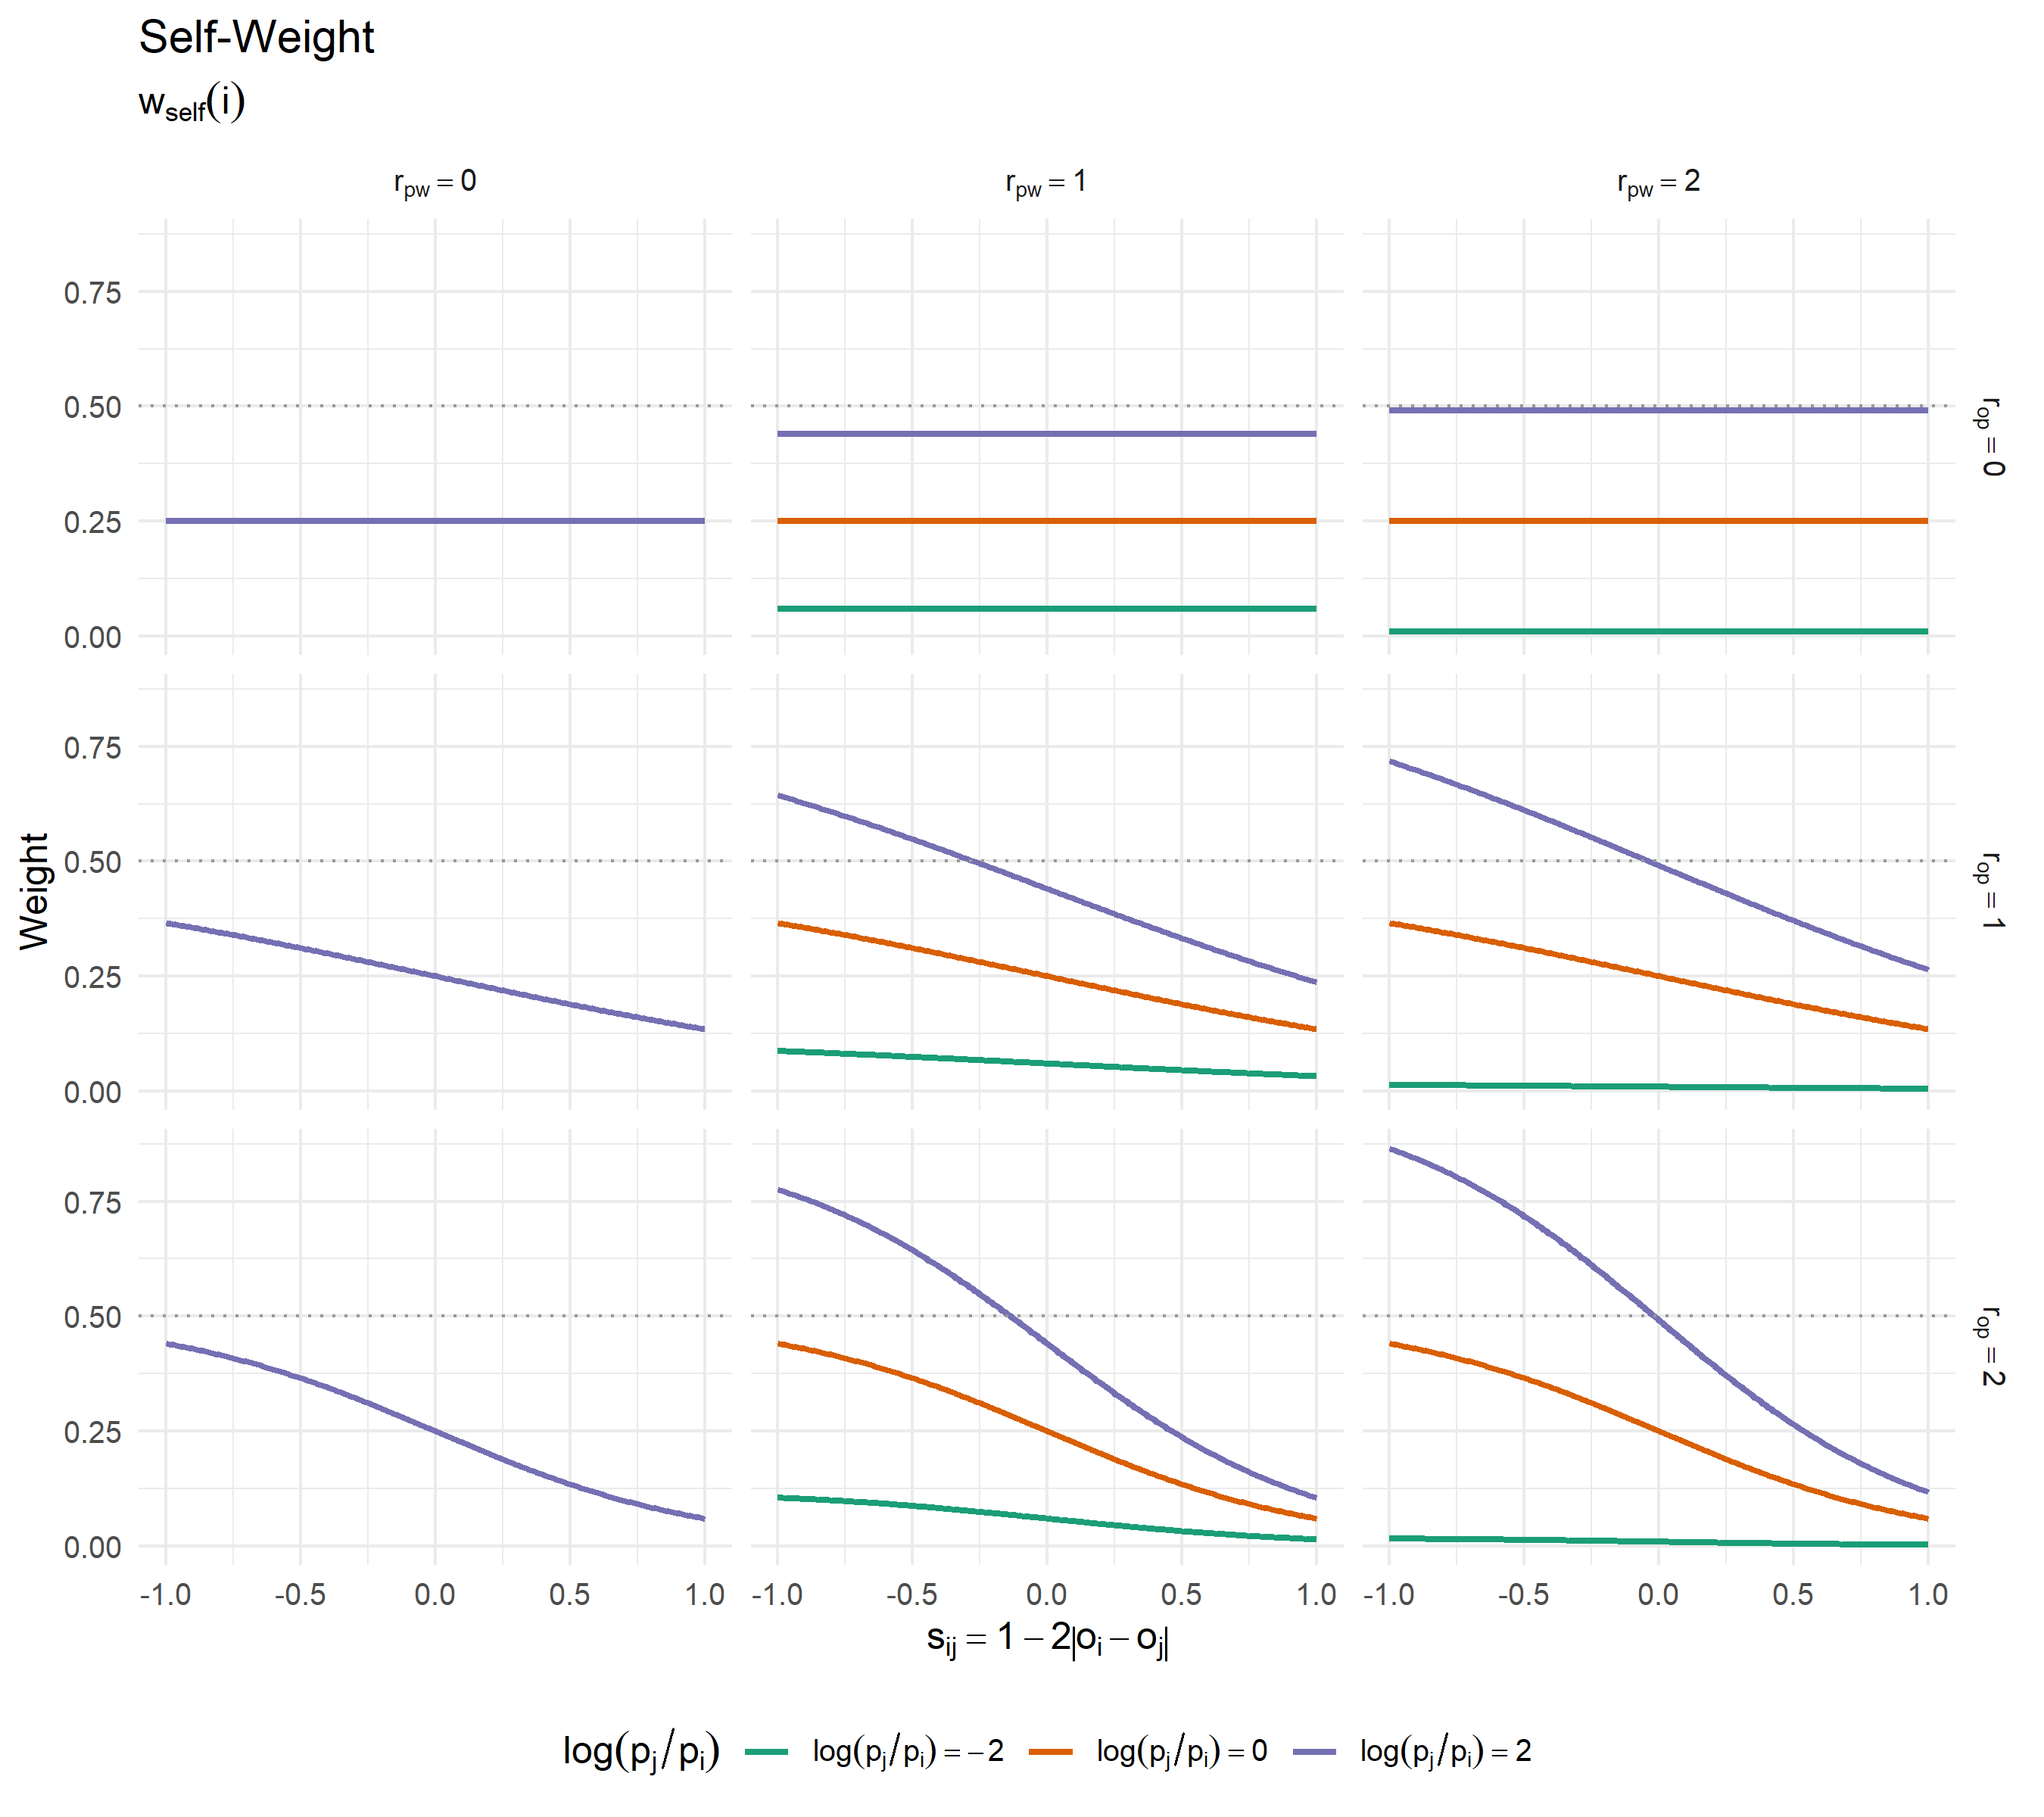
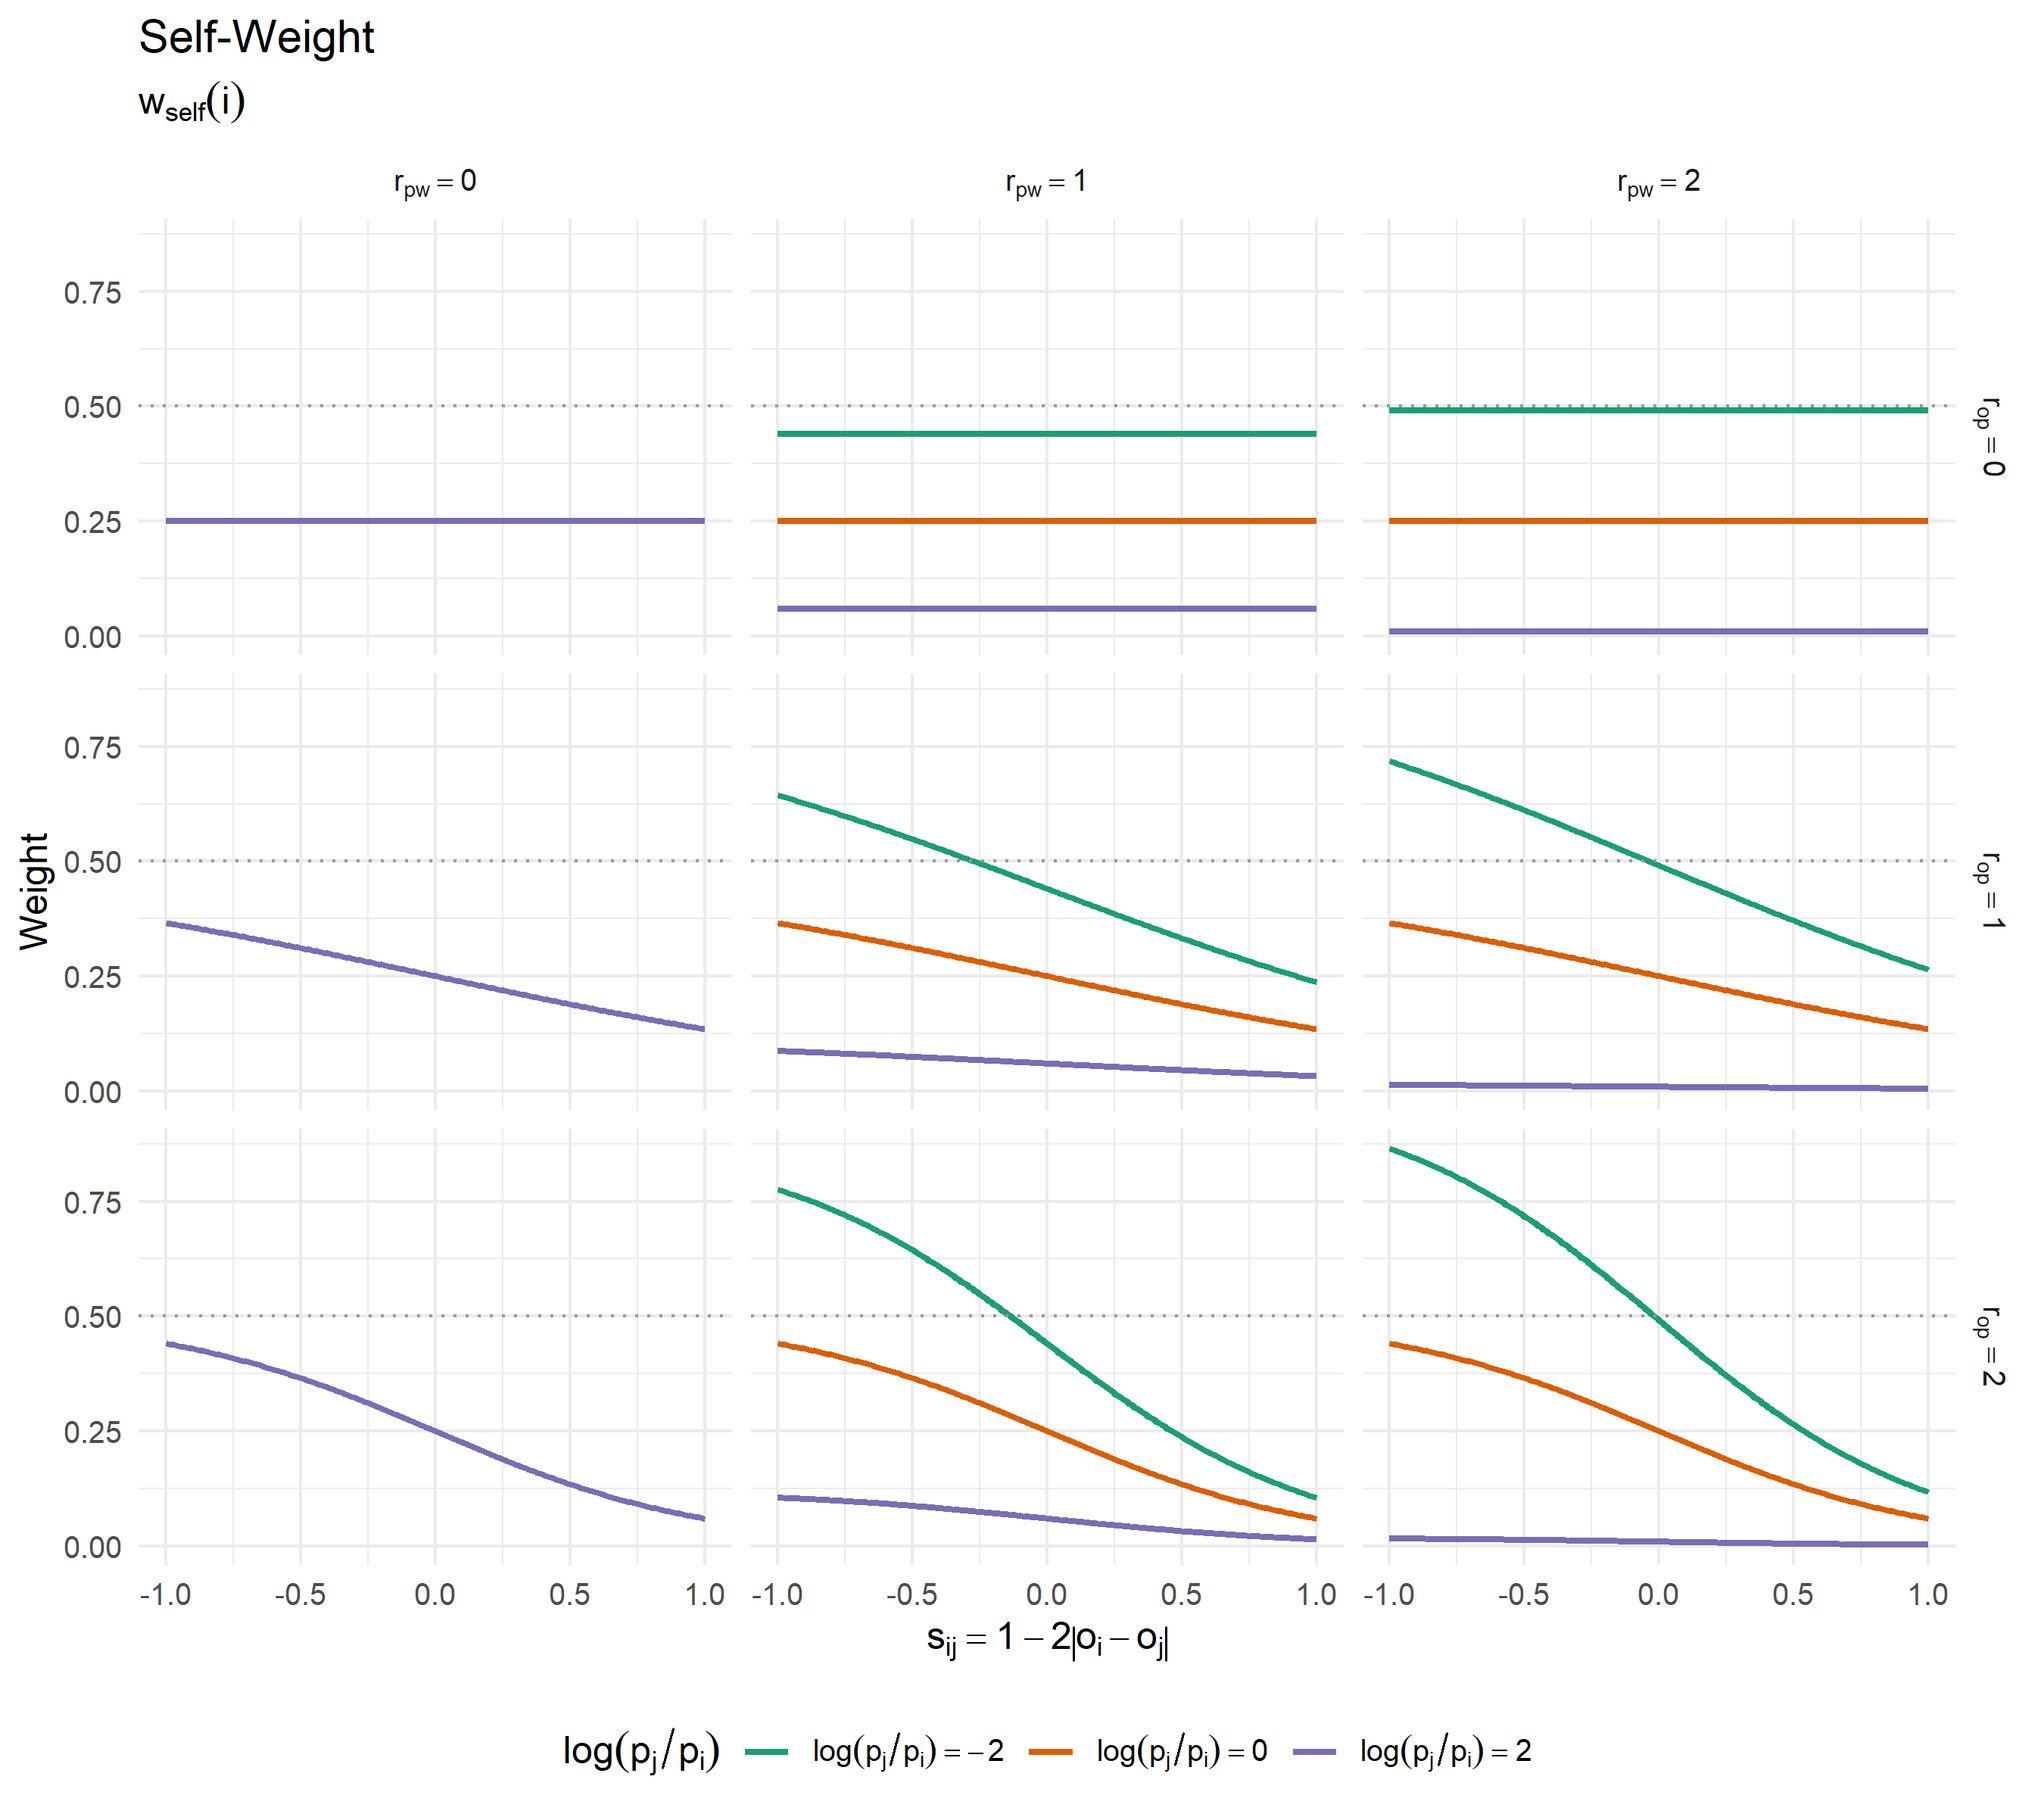
Report 11

diff --git a/reports/Report_11.md b/reports/Report_11.md
@@ -6,30 +6,14 @@ Weekly Report — Week 11 (01.05.2026 – 07.05.2026)
 
 ### Neighbour-Weight (Attractiveness)
 
-$$A_{ij} = \sigma\!\left(r_{op} \cdot \bigl(1 -2\,|o_i - o_j|\bigr)\right) \cdot \sigma\!\left(r_{pw} \cdot \log\frac{p_j}{p_i}\right)$$
-
-Defining the opinion similarity $s_{ij} = 1-2|o_i-o_j| \in [-1,1]$, this
-is equivalent to
-$A_{ij} = \sigma(-r_{op}\,s_{ij})\cdot\sigma(r_{pw}\log\tfrac{p_j}{p_i})$.
+$$A_{ij} = \sigma\!\left(r_{op} \cdot (1 - 2\,|o_i - o_j|)\right) \cdot \sigma\!\left(r_{pw} \cdot \log\frac{p_j}{p_i}\right)$$
 
 ### Self-Weight
 
 Let $j^\ast = \arg\max_{j \in N(i)} A_{ij}$ denote the most attractive
-neighbour of agent $i$. The self-weight is then defined as
+neighbour of agent $i$.
 
-$$w_{\text{self}}(i)
-= \sigma\!\left(-r_{op}\,s_{ij^\ast}\right)
-\cdot \sigma\!\left(-r_{pw}\log\frac{p_i}{p_{j^\ast}}\right)$$
-
-Equivalently,
-
-$$w_{\text{self}}(i)
-= \sigma\!\left(r_{op}\bigl(2\,|o_i - o_{j^\ast}| - 1\bigr)\right)
-\cdot \sigma\!\left(r_{pw}\log\frac{p_{j^\ast}}{p_i}\right)$$
-
-Thus, the self-weight is the mirrored counterpart of the
-neighbour-weight: conditions that increase delegation attractiveness
-reduce self-weight, and vice versa.
+$$w_{\text{self}}(i) = \sigma\!\left(r_{op} \cdot \bigl(2\,|o_i - o_{j^\ast}| - 1\bigr)\right) \cdot \sigma\!\left(r_{pw} \cdot \log\frac{p_i}{p_{j^\ast}}\right)$$
 
 ------------------------------------------------------------------------
 
@@ -37,7 +21,11 @@ reduce self-weight, and vice versa.
 
 ![](Report_11_files/figure-gfm/plot-1d-power-1.png)<!-- -->![](Report_11_files/figure-gfm/plot-1d-power-2.png)<!-- -->
 
-## 3. Weight Surfaces (2-D Heatmaps)
+## 3. Weight vs. Power Ratio (1-D Slices)
+
+![](Report_11_files/figure-gfm/plot-1d-power-x-1.png)<!-- -->![](Report_11_files/figure-gfm/plot-1d-power-x-2.png)<!-- -->
+
+## 4. Weight Surfaces (2-D Heatmaps)
 
 ![](Report_11_files/figure-gfm/plot-2d-heatmap-1.png)<!-- -->![](Report_11_files/figure-gfm/plot-2d-heatmap-2.png)<!-- -->
 
@@ -53,11 +41,11 @@ averaged over 100 independent runs).
 | r_op | r_pw | Del. mean | Del. SD | Lost mean | Lost SD |
 |-----:|-----:|----------:|--------:|----------:|--------:|
 |    0 |    0 |     0.856 |   0.002 |     0.511 |   0.008 |
-|    0 |    1 |     0.832 |   0.003 |     0.457 |   0.011 |
-|    0 |    2 |     0.819 |   0.005 |     0.430 |   0.013 |
+|    0 |    1 |     0.871 |   0.002 |     0.517 |   0.007 |
+|    0 |    2 |     0.863 |   0.002 |     0.429 |   0.012 |
 |    1 |    0 |     0.918 |   0.002 |     0.688 |   0.022 |
-|    1 |    1 |     0.903 |   0.004 |     0.641 |   0.027 |
-|    1 |    2 |     0.893 |   0.005 |     0.614 |   0.030 |
+|    1 |    1 |     0.918 |   0.003 |     0.671 |   0.024 |
+|    1 |    2 |     0.907 |   0.004 |     0.586 |   0.033 |
 |    2 |    0 |     0.957 |   0.002 |     0.828 |   0.013 |
-|    2 |    1 |     0.951 |   0.002 |     0.807 |   0.015 |
-|    2 |    2 |     0.948 |   0.002 |     0.794 |   0.017 |
+|    2 |    1 |     0.955 |   0.002 |     0.814 |   0.014 |
+|    2 |    2 |     0.946 |   0.003 |     0.756 |   0.021 |
